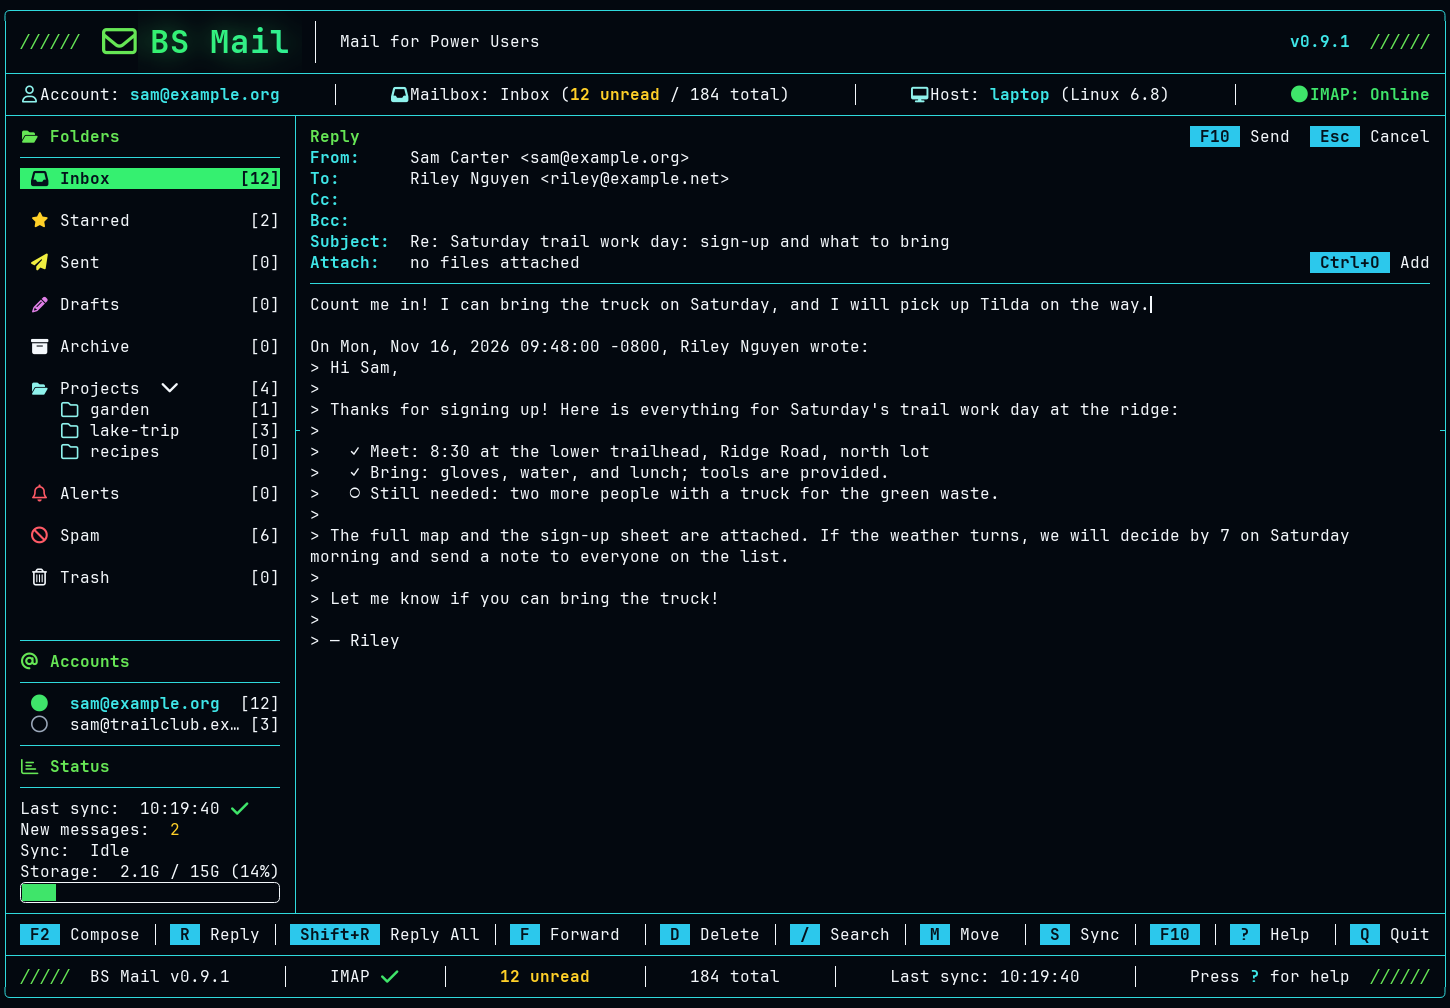
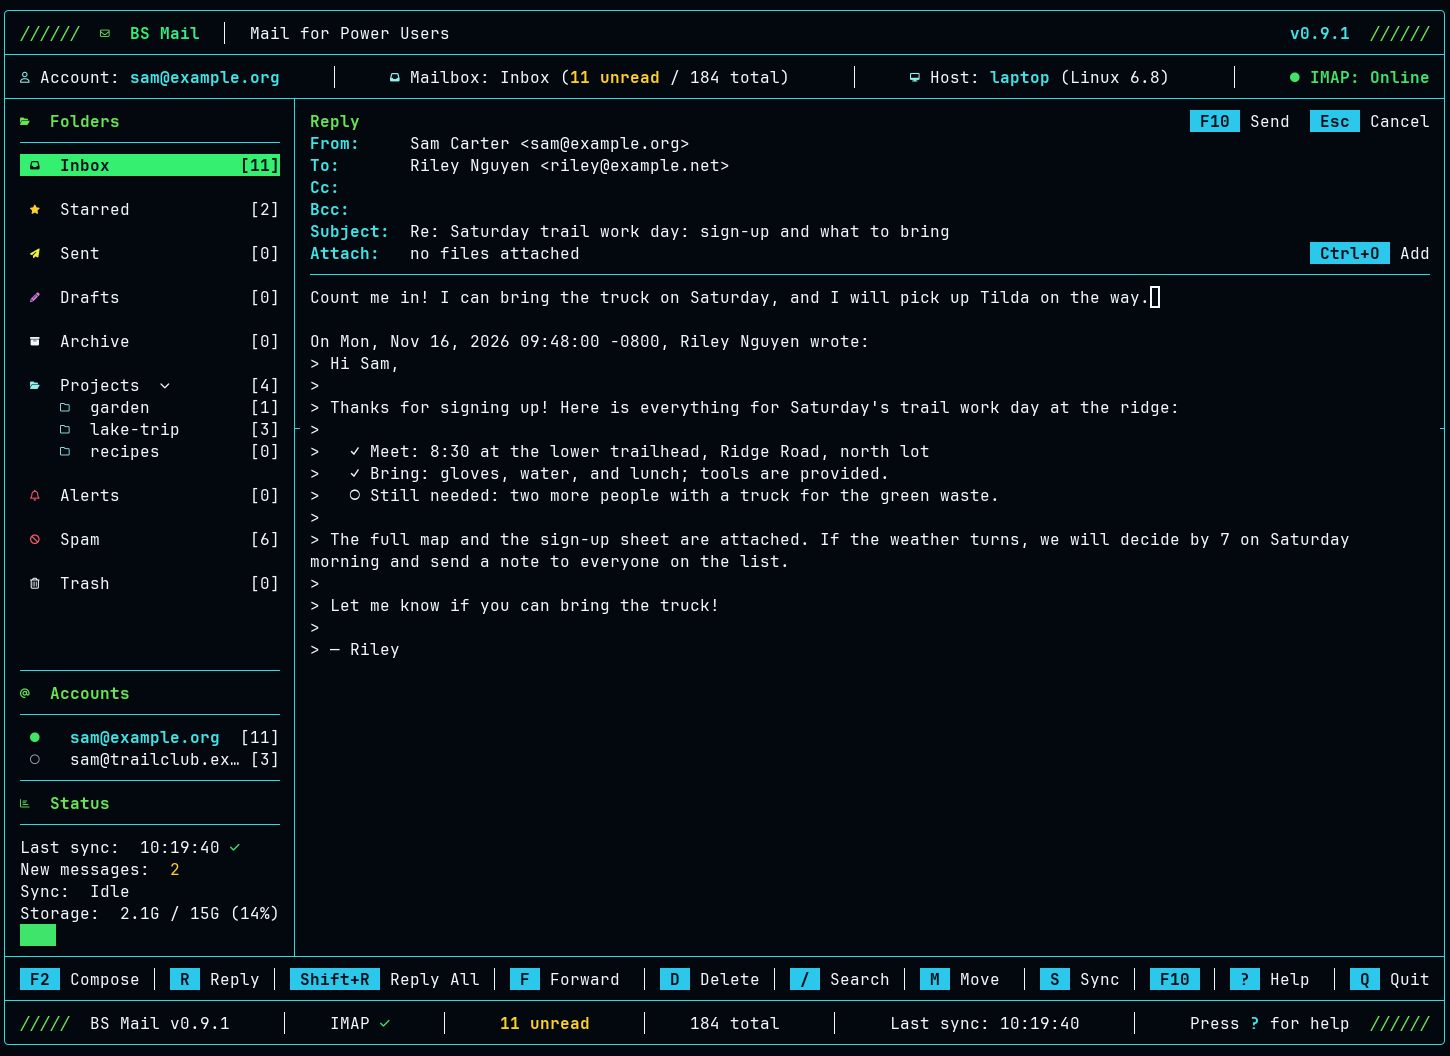
Show the terminal program in the README
The README now presents BS Mail as the terminal program it is, tells how
to start it on Linux and Windows and that --window opens a window, and
shows it with pictures of the terminal on made-up mail.

diff --git a/README.md b/README.md
@@ -2,9 +2,8 @@
 
 *Mail for Power Users*
 
-A fast, keyboard-first mail client for any IMAP and SMTP account. It opens in a
-window of its own, and on Linux it can also run inside a terminal. Everything
-works with the mouse too.
+A fast, keyboard-first mail client for any IMAP and SMTP account that runs in your
+terminal. Everything works with the mouse too.
 
 ![BS Mail: folders, message list and the open message](screenshots/main.png)
 
@@ -19,11 +18,15 @@ Get the latest release from the [Releases page](../../releases).
 
 Each file has a `.sha256` file beside it so you can check the download.
 
-- **Linux:** make the file executable (`chmod +x BSMail_linux-x64_v0.9.1.AppImage`) and run it.
-  If it does not start, your system may need FUSE: install `libfuse2` (`libfuse2t64` on Ubuntu 24.04).
-  Started from a terminal it runs in that terminal; add `--window` to get the window.
-- **Windows:** unzip, then run `bs-mail.exe`. The program is not signed, so Windows may say
-  "Windows protected your PC": choose *More info*, then *Run anyway*.
+- **Linux:** make the file executable (`chmod +x BSMail_linux-x64_v0.9.1.AppImage`) and run it
+  in your terminal. If it does not start, your system may need FUSE: install `libfuse2`
+  (`libfuse2t64` on Ubuntu 24.04).
+- **Windows:** unzip, then run `bs-mail.exe` in Windows Terminal, PowerShell or the Command
+  Prompt. The program is not signed, so Windows may say "Windows protected your PC": choose
+  *More info*, then *Run anyway*.
+
+It runs in the terminal you start it from. Add `--window` to open it in a window of its own
+instead, on Linux or Windows.
 
 ## First steps
 
